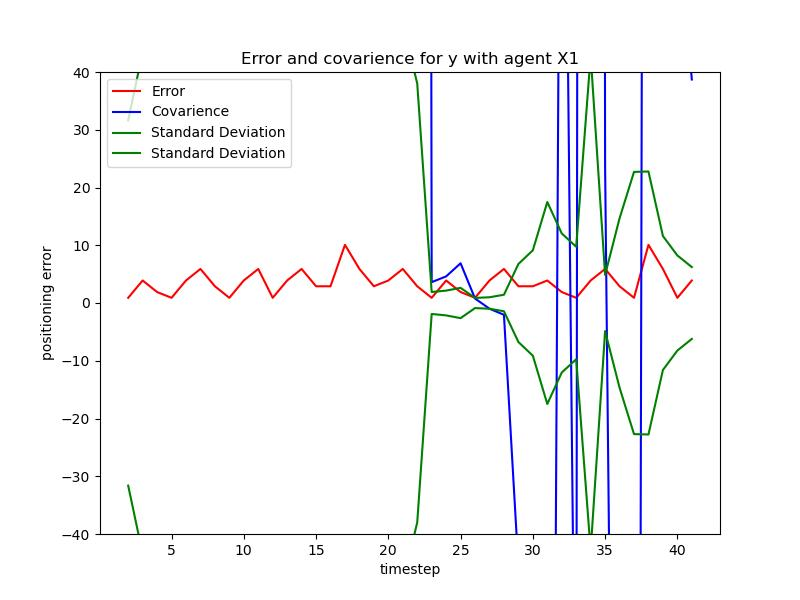
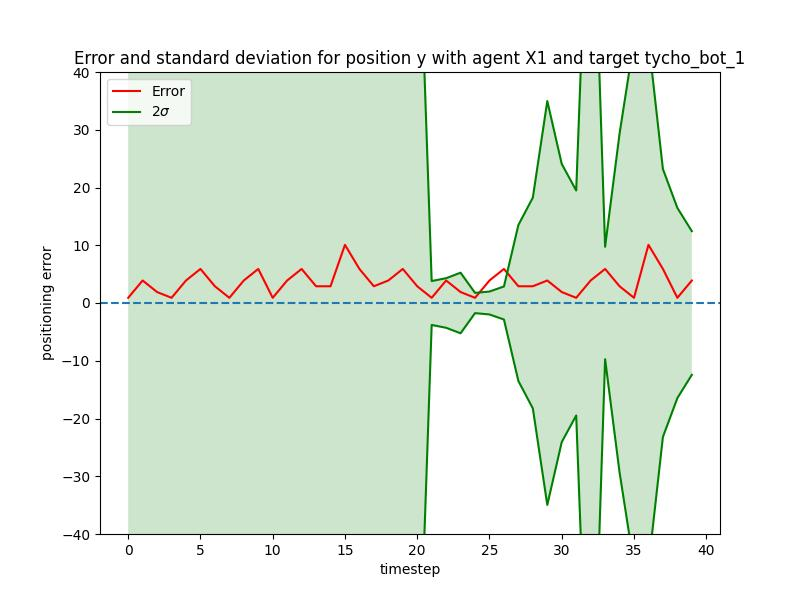
Added other data points to truth file, cleaned up graph

diff --git a/cleaning_script.py b/cleaning_script.py
@@ -19,18 +19,31 @@ def isolateTargetCoordsTruth(csvfile, targetname):
     coordinateDictionary['target'] = targetname
     coordinateDictionary['data'] = list()
     target_index = df_copy[".name"][0].strip("[]").replace("'","").split(", ").index(targetname) # so we can find right target data in position list
+    posedict = dict()
+    twistdict = dict()
+    
+    for item in list(df_copy[".twist"].items()):
+        plain_text_coords = item[1].split(",")[target_index].replace(" ","") # get just positioning data for target, format as well
+        # print(re.findall(r"[xyzw]:[-+]?(?:\d*\.*\d+)", plain_text_coords))
+        xyz = re.findall(r"[xyz]:[-+]?(?:\d*\.*\d+)", plain_text_coords)  # regex the text
+        xyz = [p[2:] for p in xyz]
+        xyz = [plain_text_coords.split()[p] for p in [1, 2, 3, 5, 6, 7]]
+        xyz = [p[2:] for p in xyz]  # drop the axis
+        twistdict = {'linear' : {'x': xyz[0], 'y': xyz[1], 'z' : xyz[2]}, 'angular' : {'x': xyz[3], 'y': xyz[4], 'z' : xyz[5]}}
     
     for index, item in enumerate(list(df_copy[".pose"].items())):
         plain_text_coords = item[1].split(",")[target_index].replace(" ","") # get just positioning data for target, format as well
         timestamp = list(df_copy["time"].items())[index][1]
-        xyz = re.findall(r"[xyz]:[-+]?(?:\d*\.*\d+)", plain_text_coords)  # regex the text
+        # print(re.findall(r"[xyzw]:[-+]?(?:\d*\.*\d+)", plain_text_coords))
+        xyz = re.findall(r"[xyzw]:[-+]?(?:\d*\.*\d+)", plain_text_coords)  # regex the text
         xyz = [p[2:] for p in xyz]
-        xyz = [plain_text_coords.split()[p] for p in [1, 2, 3]]
+        xyz = [plain_text_coords.split()[p] for p in [1, 2, 3, 5, 6, 7, 8]]
         xyz = [p[2:] for p in xyz]  # drop the axis
-        coordinateDictionary['data'].append({'timestamp' : timestamp, 'timestep' : index, 'x': xyz[0], 'y': xyz[1], 'z' : xyz[2]}) # list of timestamps, each with dict of coords
+        posedict = {'position' : {'x': xyz[0], 'y': xyz[1], 'z' : xyz[2]}, 'orientation' : {'x': xyz[3], 'y': xyz[4], 'z' : xyz[5], 'w' : xyz[6]}}
+        coordinateDictionary['data'].append({'timestamp' : timestamp, 'timestep' : index, '.pose' : posedict, '.twist' : twistdict}) # list of timestamps, each with dict of coords
     return coordinateDictionary
 
-def isolateTargetCoordsAndCovarienceTest(csvfile, agentname):
+def isolateTargetCoordsAndCovarienceTest(csvfile, agentname, begindatarow):
     file_df = pd.read_csv(csvfile)
     df_copy = file_df.copy() # so we don't mess with the original data
     coordandcovdict = dict()
@@ -40,7 +53,7 @@ def isolateTargetCoordsAndCovarienceTest(csvfile, agentname):
     for index, item in enumerate(list(df_copy[".TMu"].items())):
         if list(df_copy[".Agent"].items())[index][1] == agentname:
             timestamp = list(df_copy["time"].items())[index][1]
-            timestep = list(df_copy[".TimeStep"].items())[index][1]
+            timestep = float(list(df_copy[".TimeStep"].items())[index][1]) - begindatarow
             TMu = item[1].strip("()").replace(" ","").split(",")
             TCov = list(df_copy[".TCov"].items())[index][1].strip("()").replace(" ","").split(",")
             coordandcovdict['data'].append({'timestamp' : timestamp, 'timestep' : timestep ,
@@ -48,7 +61,7 @@ def isolateTargetCoordsAndCovarienceTest(csvfile, agentname):
                                             'varX' : TCov[0], 'varY' : TCov[5], 'varVx' : TCov[10], 'varVy' : TCov[15]})
     return coordandcovdict
 
-def createErrorGraph(truthdict, resultsdict, datapoint):
+def createErrorGraph(truthdict, resultsdict, datapoint, datasubscriber, dataspecifier):
     """
     *Calculate xy standard deviation (two variables), and plot it as a horizontal line
     *Plot the square root of the covarience
@@ -65,8 +78,7 @@ def createErrorGraph(truthdict, resultsdict, datapoint):
     yStandardDev = list()
     yNegSDev = list()
     for item in list(truthdict['data']):
-        yTruth.append(float(item[datapoint]))
-        print('truthval',float(item[datapoint]))
+        yTruth.append(float(item[datasubscriber][dataspecifier][datapoint]))
     for count, item in enumerate(list(resultsdict['data'])):
         x.append(int(item['timestep']))
         yErr.append((yTruth[count] - float(item[datapoint]))) # error = pos in gazebo - pos in results
@@ -75,19 +87,21 @@ def createErrorGraph(truthdict, resultsdict, datapoint):
     yNegSDev = [-y for y in yStandardDev]
     # Create a Matplotlib figure and axis
     plt.figure(figsize=(8, 6))
-    plt.title('Error and covarience for ' + str(datapoint) + ' with agent ' + resultsdict['agent'])
+    plt.title('Error and standard deviation for ' + str(dataspecifier) + ' ' + str(datapoint) + ' with agent ' +
+              resultsdict['agent'] + ' and target ' + truthdict['target'])
     plt.xlabel('timestep')
     plt.ylabel('positioning error')
+    
     plt.plot(x, yErr, label='Error', color='red')
-    # plt.plot(x, yCov, label='Covarience', color='blue')
     plt.plot(x, yStandardDev, label='2$\sigma$', color='green')
     plt.plot(x, yNegSDev, color='green')
+    plt.axhline(y = 0, linestyle = 'dashed')
+    plt.fill_between(x, yStandardDev, yNegSDev, alpha=.2, linewidth=0, color='green')
     plt.ylim(-40, 40)
 
     # Add a legend to distinguish the lines
     plt.legend()
     plt.savefig(resultsdict['agent']+datapoint+"_err.jpg")
-    print('\%\%\%\%\%\%\%\% ',yCov,' %\%\%\%\%\%\%\%')
 
 def findAverageTimestep(dictfile):
     # All of the data is collected within a minute, so we can safely subtract without converting
@@ -134,15 +148,14 @@ def standardiseData(truthdict, resultsdict, startingtime):
 def main():
     # testing
     gazebo_truth = isolateTargetCoordsTruth("2023-08-16-12-58-55-gazebo-model_states.csv","tycho_bot_1")
-    resultsX1 = isolateTargetCoordsAndCovarienceTest("2023-08-29-10-20-22-results.csv", 'X1')
-    resultsX2 = isolateTargetCoordsAndCovarienceTest("2023-08-29-10-20-22-results.csv", 'X2')
+    resultsX1 = isolateTargetCoordsAndCovarienceTest("2023-08-29-10-20-22-results.csv", 'X1', 2)
+    resultsX2 = isolateTargetCoordsAndCovarienceTest("2023-08-29-10-20-22-results.csv", 'X2', 2)
     
     gazebo_standard = standardiseData(gazebo_truth, resultsX1,'1969/12/31/17:06:35.445000')
-    
-    createErrorGraph(gazebo_standard, resultsX1, 'x')
-    createErrorGraph(gazebo_standard, resultsX1, 'y')
-    createErrorGraph(gazebo_standard, resultsX2, 'x')
-    createErrorGraph(gazebo_standard, resultsX2, 'y')
+    createErrorGraph(gazebo_standard, resultsX1, 'x', '.pose', 'position')
+    createErrorGraph(gazebo_standard, resultsX1, 'y', '.pose', 'position')
+    createErrorGraph(gazebo_standard, resultsX2, 'x', '.pose', 'position')
+    createErrorGraph(gazebo_standard, resultsX2, 'y', '.pose', 'position')
     # pprint.pprint(gazebo_standard)
     # pprint.pprint(resultsX1)
     
